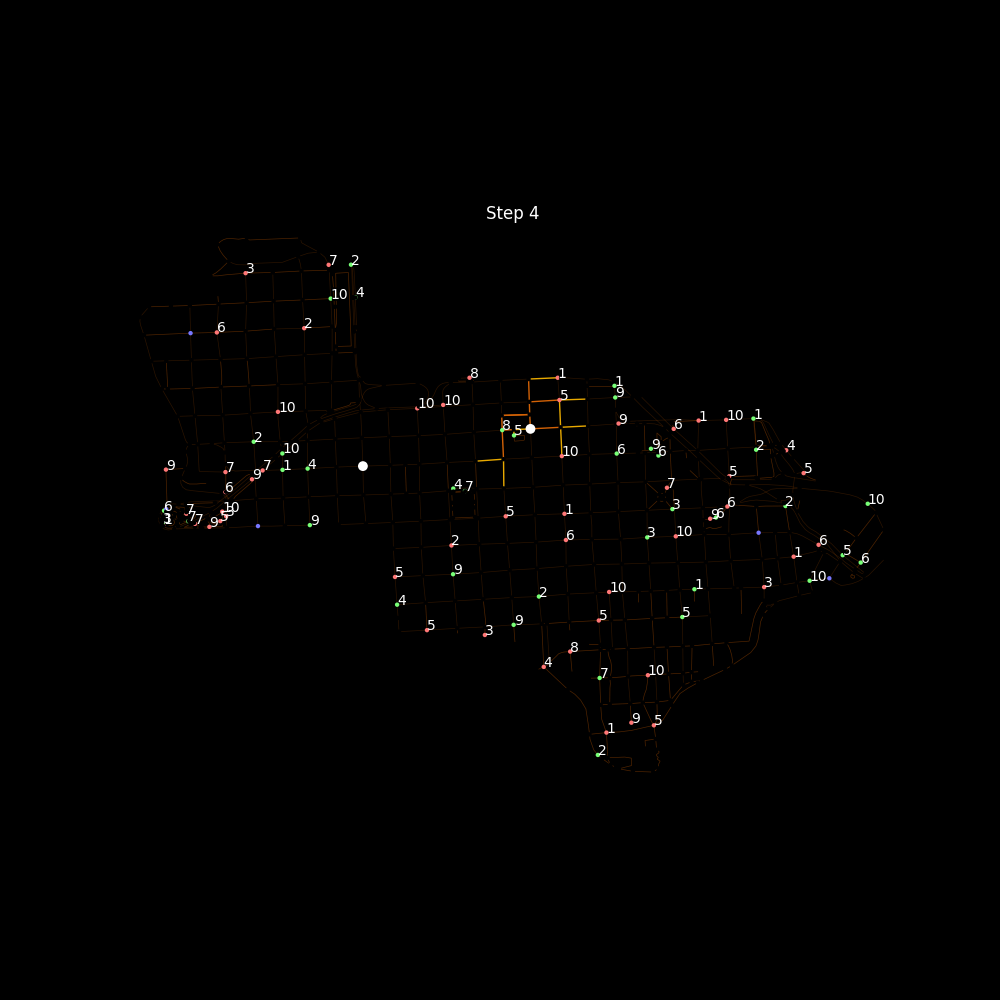
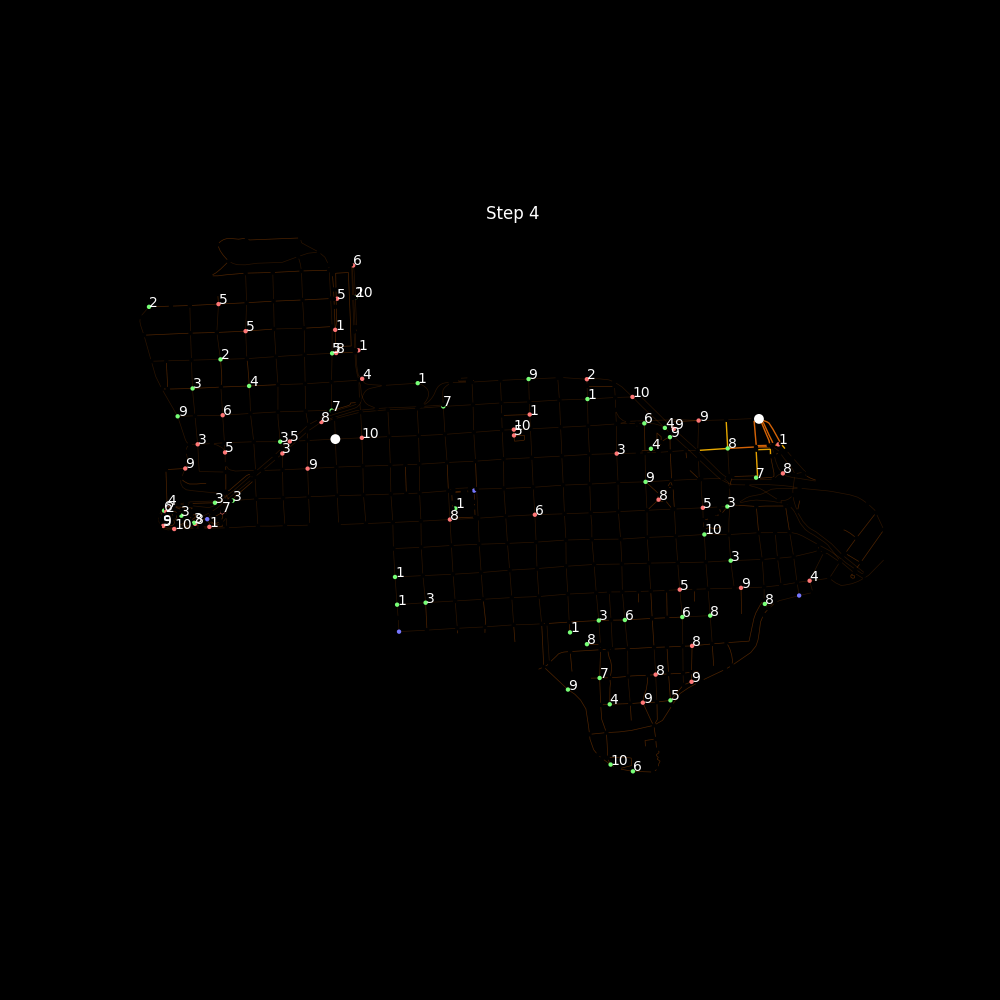
Now traffic lights cannt be origin or destiny.

diff --git a/app/models/algorithm.py b/app/models/algorithm.py
@@ -175,12 +175,13 @@ class Algorithm:
     """ Segundo punto """
 
     def a_star_traffic_lights(self, origen: int, destino: int):
-
         for node in self._G.nodes:
             self._G.nodes[node]['previous'] = None
             self._G.nodes[node]['g_score'] = float('inf')
             self._G.nodes[node]['f_score'] = float('inf')
 
+            if node == origen or node == destino:
+                continue
             if random.random() < 0.15:
                 self._G.nodes[node]['tiempo'] = random.randint(1, 10)
                 self._G.nodes[node]['color'] = RED_NODE
@@ -200,10 +201,6 @@ class Algorithm:
         self._G.nodes[origen]['g_score'] = 0
         self._G.nodes[destino]['color'] = WHITE_NODE
         self._G.nodes[destino]['size'] = 50
-
-        # print('LLAVES1::', set([
-        #     self._G.nodes[node]['color'] for node in self._G.nodes
-        # ]))
 
         pq = [(self._G.nodes[origen]['f_score'], origen)]
         step = 0
